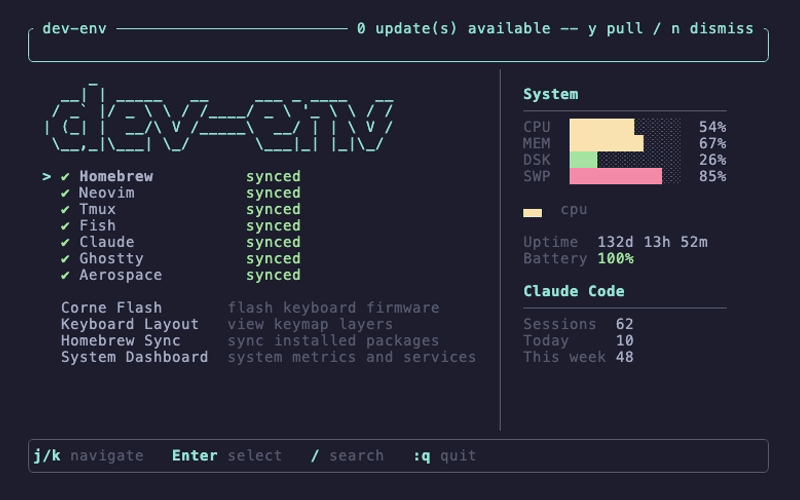
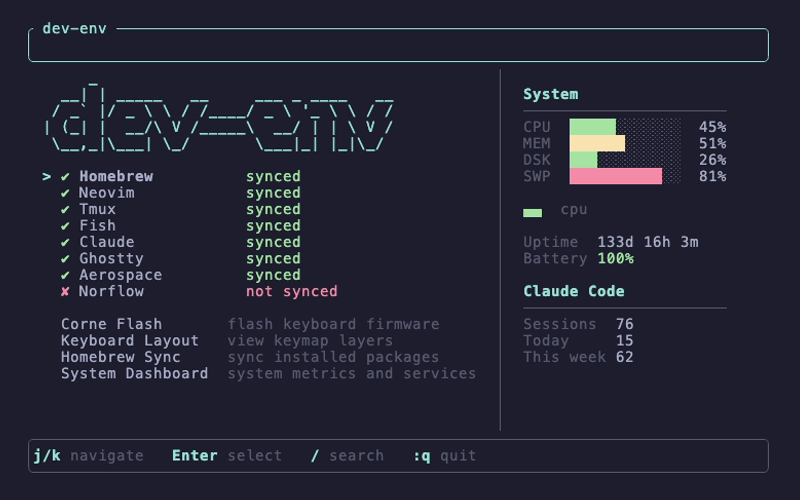
feat: add norflow config sync

diff --git a/src/items.rs b/src/items.rs
@@ -36,6 +36,7 @@ pub enum ItemId {
     Claude,
     Ghostty,
     Aerospace,
+    Norflow,
     CorneFlash,
     KeyboardLayout,
     HomebrewSync,
@@ -93,6 +94,13 @@ impl MenuItem {
                 kind: ItemKind::Sync,
                 status: SyncStatus::Checking,
                 id: ItemId::Aerospace,
+            },
+            MenuItem {
+                label: "Norflow",
+                description: "symlink config",
+                kind: ItemKind::Sync,
+                status: SyncStatus::Checking,
+                id: ItemId::Norflow,
             },
             MenuItem {
                 label: "Corne Flash",
@@ -237,6 +245,10 @@ fn symlink_pairs(id: ItemId, repo_root: &Path) -> Option<Vec<(PathBuf, PathBuf)>
             home.join(".config/ghostty/config"),
             repo_root.join("ghostty/config"),
         )]),
+        ItemId::Norflow => Some(vec![(
+            home.join(".config/norflow/config.toml"),
+            repo_root.join("norflow/config.toml"),
+        )]),
         ItemId::Aerospace => Some(vec![(
             home.join(".aerospace.toml"),
             repo_root.join("aerospace/aerospace.toml"),
@@ -304,11 +316,11 @@ mod tests {
     #[test]
     fn all_items_has_correct_structure() {
         let items = MenuItem::all();
-        assert_eq!(items.len(), 11);
+        assert_eq!(items.len(), 12);
 
         let sync_count = items.iter().filter(|i| i.kind == ItemKind::Sync).count();
         let action_count = items.iter().filter(|i| i.kind == ItemKind::Action).count();
-        assert_eq!(sync_count, 7);
+        assert_eq!(sync_count, 8);
         assert_eq!(action_count, 4);
     }
 
@@ -417,6 +429,7 @@ mod tests {
         assert!(symlink_pairs(ItemId::Claude, &root).is_some());
         assert!(symlink_pairs(ItemId::Ghostty, &root).is_some());
         assert!(symlink_pairs(ItemId::Aerospace, &root).is_some());
+        assert!(symlink_pairs(ItemId::Norflow, &root).is_some());
     }
 
     #[test]

diff --git a/src/app.rs b/src/app.rs
@@ -875,7 +875,7 @@ mod tests {
     #[test]
     fn items_have_correct_count() {
         let app = test_app();
-        assert_eq!(app.items.len(), 11);
+        assert_eq!(app.items.len(), 12);
     }
 
     #[test]